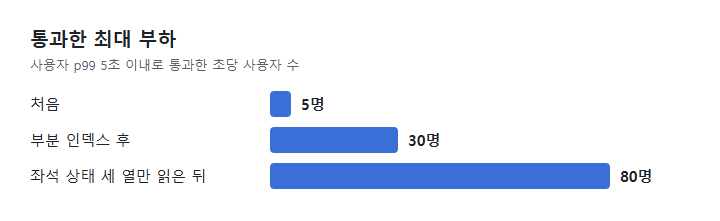
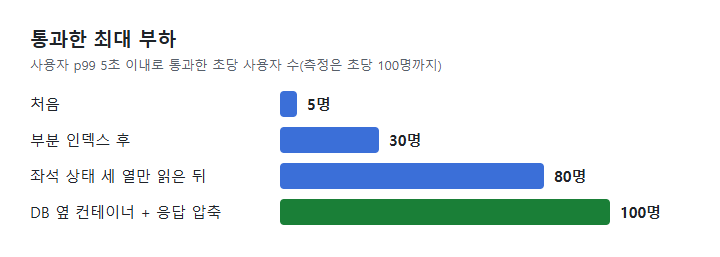
docs(blog): 응답 압축과 부하 도구 수정 뒤 초당 100명 통과를 반영한다
5절을 초당 100명 압축 전후(Gatling 쪽 좌석 상태 p95 4,576ms -> 24ms)로 바꾸고, 부하 도구가
결과 파일을 사용자마다 여닫아 투입이 흔들린 일을 6절로 더한다. 그림 1(통과한 최대 부하)과
그림 5(초당 100명 좌석 상태 Gatling 리포트 전후)를 새로 만들었다.

diff --git a/blog-drafts/2026-10-12/ticket-loadtest-bottleneck-ladder.md b/blog-drafts/2026-10-12/ticket-loadtest-bottleneck-ladder.md
@@ -1,8 +1,8 @@
 # 병목 하나를 걷어내면 다음 병목이 보였다: 티켓 예매 부하 테스트 하루
 
 - 주문 500만 건이 쌓인 환경에서 예매 흐름에 부하를 걸었더니 **초당 10명**에서 무너졌다(p99 14.7초).
-- 인덱스 하나와 "필요한 열만 읽기"로 **초당 80명**까지 올렸다.
-- 그다음 막힌 곳은 코드가 아니라 로컬 PC의 Docker 포트 중계였다. 서버를 DB 옆으로 옮기자 초당 100명에서도 서버 응답 p95가 **39ms**였다.
+- 인덱스, 필요한 열만 읽기, 응답 압축으로 서버 쪽 병목을 걷어냈다. 중간에 로컬 Docker 포트 중계와 부하 도구의 파일 쓰기라는 측정 환경 문제도 찾아 고쳤다.
+- 결과: 측정한 최대치인 **초당 100명**을 사용자 p99 0.2~0.3초로 통과했다.
 
 ## 무엇을 쟀나
 
@@ -94,21 +94,36 @@ DB도 서버 CPU도 여유가 있었으니, 톨게이트는 둘 사이 어딘가
 
 서버의 응답 압축을 켜고(`server.compression.enabled: true`), 부하 도구도 브라우저처럼 `Accept-Encoding: gzip`을 보내게 했다. 응답이 1MB에서 78KB가 됐다.
 
-| 초당 80명, 부하 도구가 잰 좌석 상태 | 압축 전 | 압축 후 |
+| 초당 100명, 부하 도구가 잰 좌석 상태 | 압축 전 | 압축 후 |
 | --- | --- | --- |
-| p50 | 287ms | **22ms** |
+| p95 | 4,576ms | **24ms** |
 | 응답 크기 | 1,050KB | 78KB |
 
-압축 후 값은 사용자 투입이 고르지 않았던 실행에서 잰 것이다. 그래도 투입 흔들림의 영향을 덜 받는 중앙값(p50)이 13배 줄었다.
+압축 후 값은 6절의 부하 도구 수정까지 마친 뒤 잰 것이다.
 
-배운 점: 서버가 빨라도 응답이 크면 받는 쪽에서 느려진다. 그리고 압축은 부하 도구만이 아니라 실제 사용자의 휴대폰에도 그대로 이득이다.
+배운 점: 서버가 빨라도 응답이 크면 받는 쪽에서 느려진다. 압축은 실제 사용자의 휴대폰에도 그대로 이득이다.
 
-## 남은 숙제
+## 6. 마지막 병목은 부하 도구 안에 있었다
 
-압축 뒤 측정에서는 같은 PC가 몇 초씩 통째로 멈추는 일이 생겨 사용자 투입이 고르지 않았다. 그래서 통과·실패 판정은 아직 못 했다. 메모리 압박이 의심되는데(미확인), 다른 프로그램을 닫고 다시 재거나 부하 도구를 다른 서버로 옮겨 잴 생각이다.
+압축 뒤에는 서버도 빨랐는데 측정이 자꾸 무효가 됐다. 초당 80명을 고르게 넣어야 하는데, 부하 도구가 1~2초 멈췄다가 몰아서 넣었다(초당 30명 → 138명).
+처음에는 PC 메모리를 의심했다. IDE를 끄자 PC 전체가 몇 초씩 멈추던 일은 사라졌지만 짧은 멈춤은 남았다. 그 순간 PC의 CPU와 메모리는 멀쩡했다.
+
+원인은 부하 도구 코드였다. 가상 사용자 한 명이 끝날 때마다 결과 파일을 전역 잠금 아래에서 열고, 한 줄 쓰고, 닫았다.
+초당 80번 여닫다가 한 번만 느려져도 잠금을 기다리는 작업 스레드가 모두 멈추고, 그 스레드가 맡은 사용자 투입도 밀렸다. 파일을 한 번 열어 둔 채 한 줄씩 쓰게 바꿨다.
+
+| 초당 80명 | 고치기 전 | 고친 뒤 |
+| --- | --- | --- |
+| 실제로 들어간 사용자(초당) | 30~138명(무효) | 79~81명 |
+| 사용자 p99 | 893ms | **216ms** |
+
+고친 뒤 초당 80명과 100명을 각각 두 번씩 재서 모두 통과했다. 초당 100명에서 사용자 p99는 200~277ms였다.
+
+배운 점: 측정 도구도 측정 대상처럼 의심한다. 투입이 고른지 먼저 확인하지 않았다면 부하 도구의 멈춤을 서버 탓으로 읽었을 것이다.
 
 ## 정리
 
 - 여러 API가 함께 느리면 공용 자원부터, 한 API만 느리면 그 쿼리부터 본다.
 - 서버가 잰 시간과 클라이언트가 잰 시간, 커넥션을 쥔 시간과 DB가 일한 시간을 나란히 놓으면 시간이 새는 곳이 보인다.
 - 효과가 없던 실험(풀 20)이 가장 큰 단서였다.
+
+같은 PC에서 잰 숫자는 병목을 찾는 데까지 쓴다. 실제 수용량은 부하 도구를 다른 서버로 분리한 운영 환경에서 다시 잴 생각이다.
